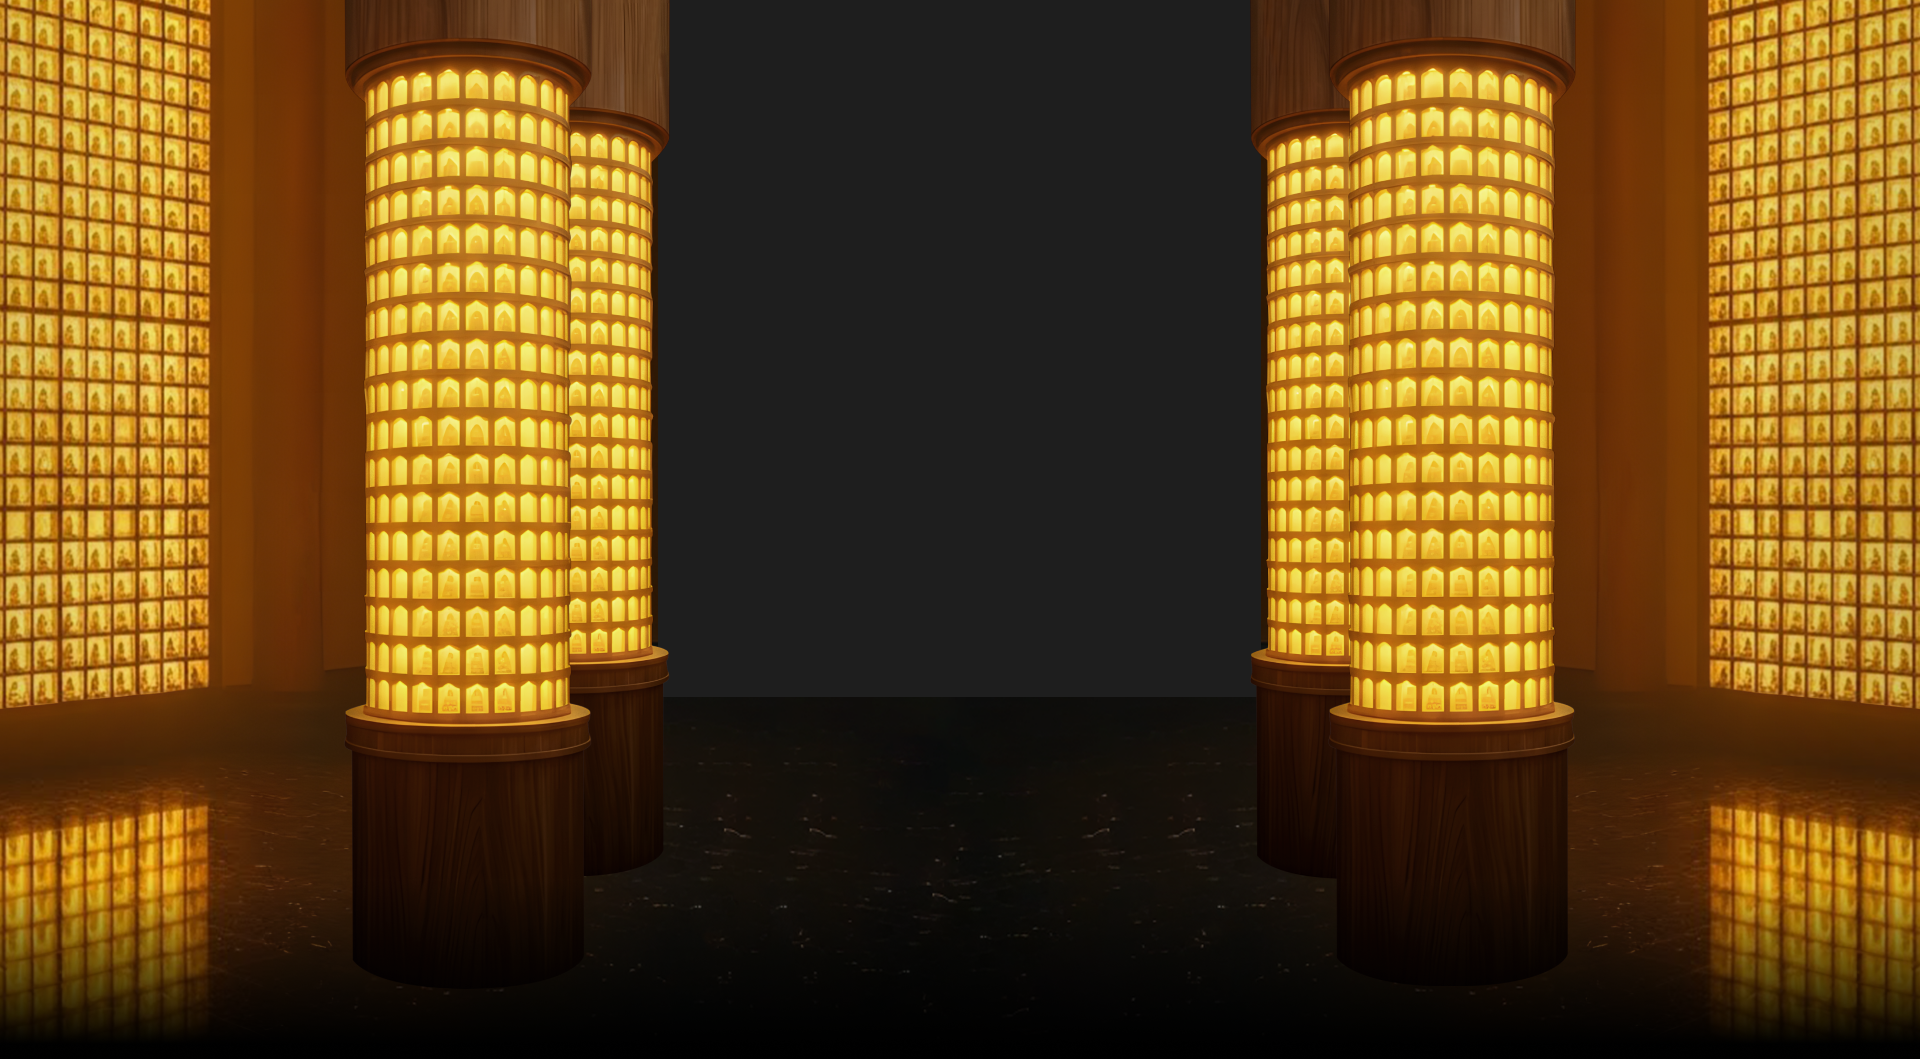
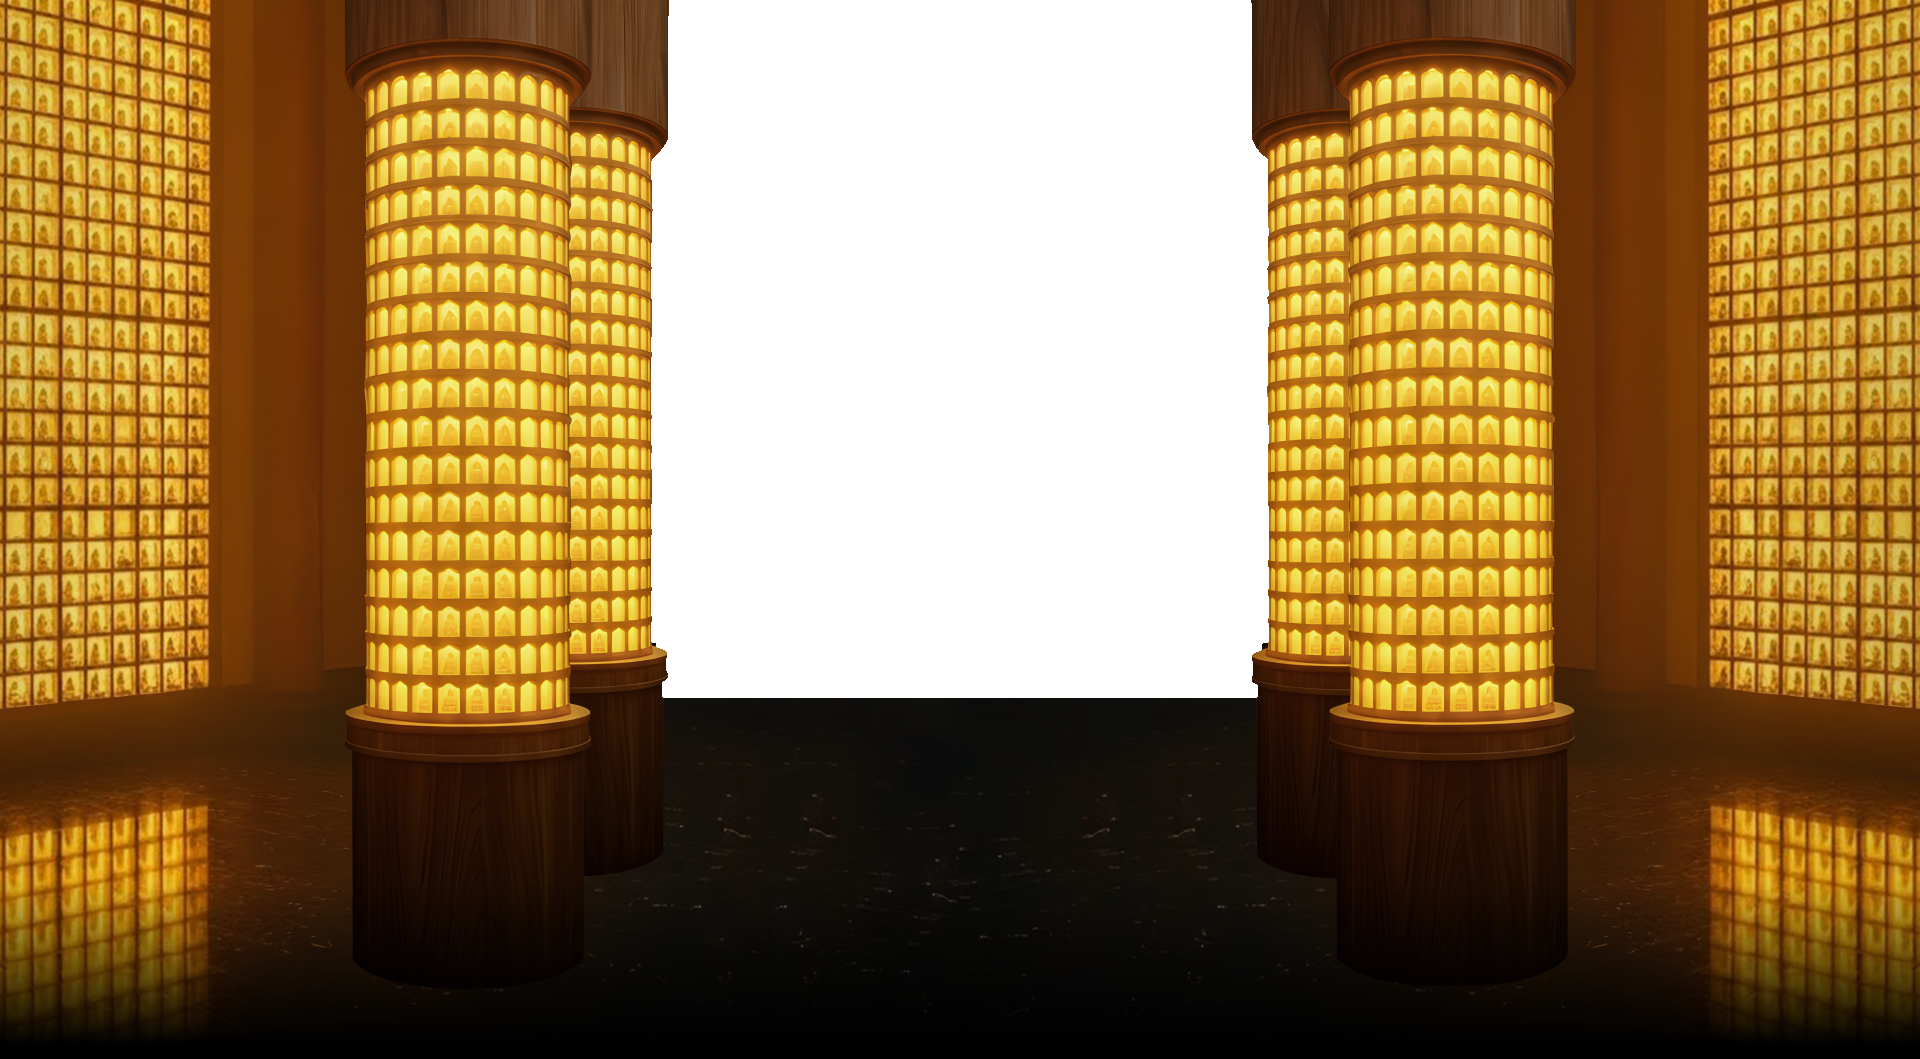
fiexd 光明燈

Changed region(s): [[0.3125, 0.0, 0.6875, 0.6856]]

diff --git a/resources/views/components/bright-lamp.blade.php b/resources/views/components/bright-lamp.blade.php
@@ -28,7 +28,7 @@
 
     {{-- 全幅場景 --}}
     <div class="bl-scene">
-      <img class="bl-scene__bg" src="{{ $bgImgSrc }}" alt="" aria-hidden="true" />
+      <img class="bl-scene__bg"   src="{{ $bgImgSrc }}"   alt="" aria-hidden="true" />
       <img class="bl-scene__main" src="{{ $mainImgSrc }}" alt="主神像" />
     </div>
 
@@ -116,10 +116,12 @@
   flex-direction: column;
   align-items: center;
   overflow: hidden;
+  background-color: #0E0903;
 }
 
 .bl-scene {
   position: relative;
+  z-index: 1;          /* 建立獨立 stacking context，低於 bl-panel-wrap (z-index:10) */
   width: 100%;
   height: 100%;
   min-height: 640px;
@@ -133,7 +135,7 @@
   object-fit: cover;
   object-position: center top;
   display: block;
-  z-index: 1;
+  z-index: 1;          /* bl-scene 內部：底層 */
 }
 
 .bl-scene__main {
@@ -147,7 +149,7 @@
   object-fit: contain;
   object-position: top center;
   display: block;
-  z-index: 0;
+  z-index: 0;          /* 底圖下面，透過底圖透明區域顯示 */
 }
 
 /* ==================== 搜尋面板 ==================== */

diff --git a/resources/views/components/product-list-section.blade.php b/resources/views/components/product-list-section.blade.php
@@ -482,6 +482,7 @@
     getAllCards().forEach(function (card) {
         card.addEventListener('click', function (e) {
             if (e.target.closest('.product-cart-icon')) return;
+            if (batchMode) e.preventDefault();
             handleCardClick(card);
         });
     });

diff --git a/resources/views/components/pv-product-list-section.blade.php b/resources/views/components/pv-product-list-section.blade.php
@@ -586,6 +586,7 @@
   getAllCards().forEach(function (card) {
     card.addEventListener('click', function (e) {
       if (e.target.closest('.pv-pl-cart-btn')) return;
+      if (batchMode) e.preventDefault();
       handleCardClick(card);
     });
   });